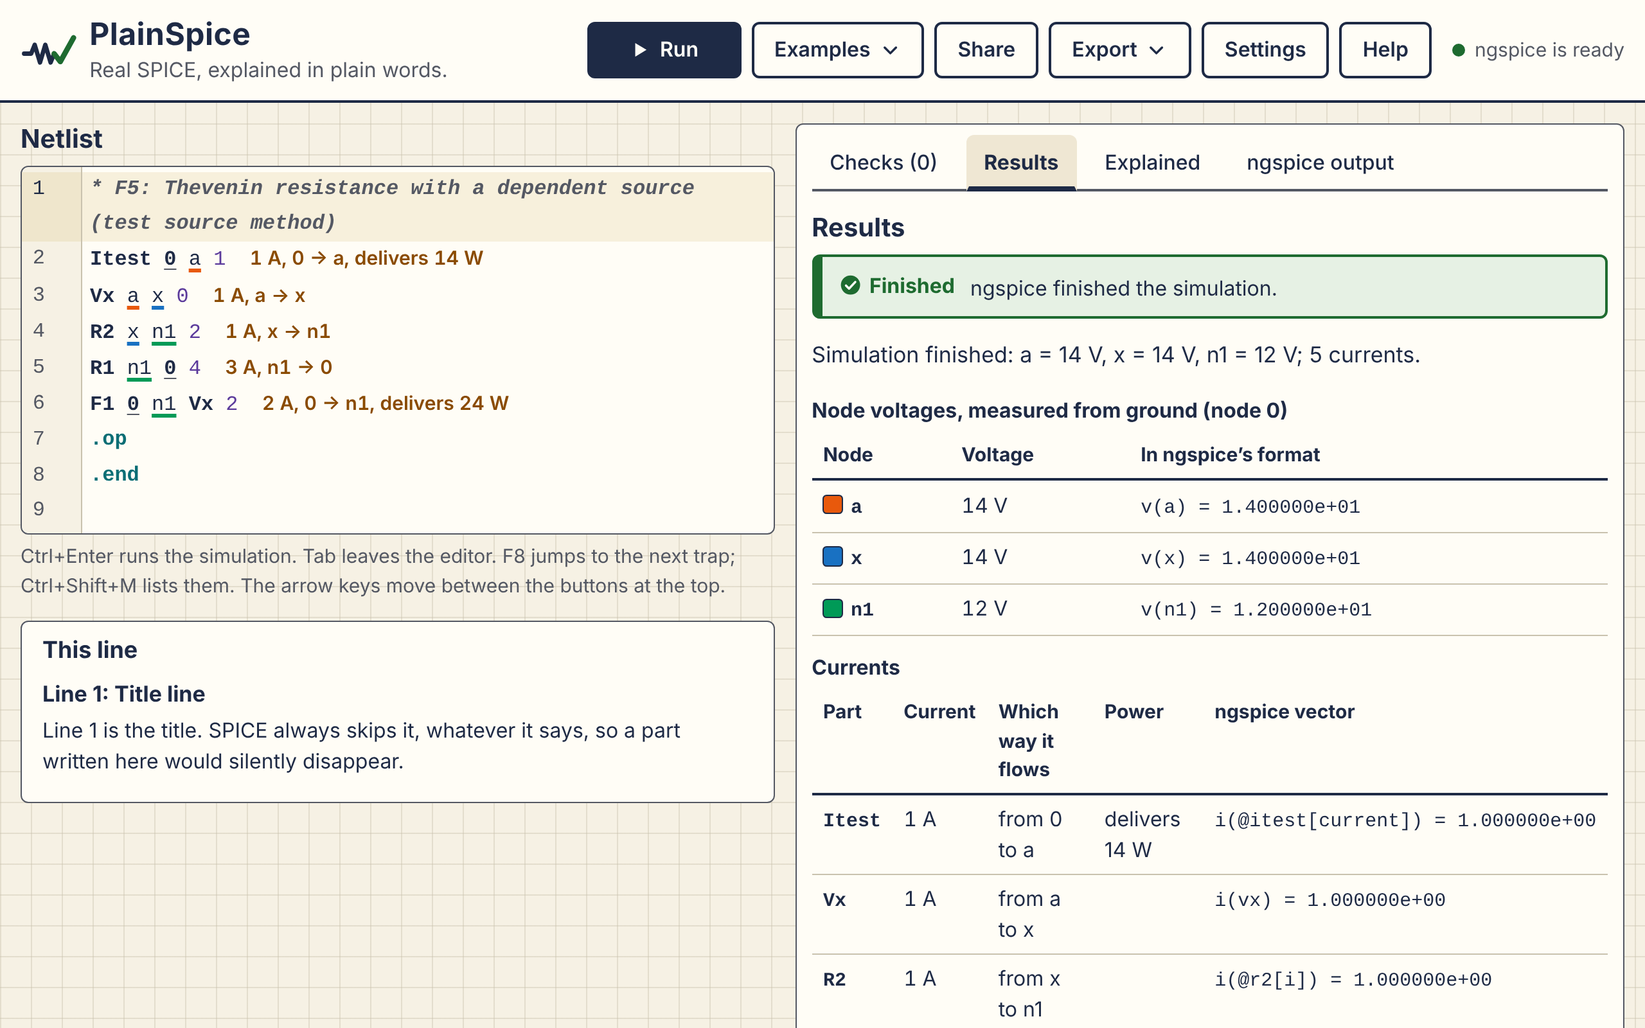
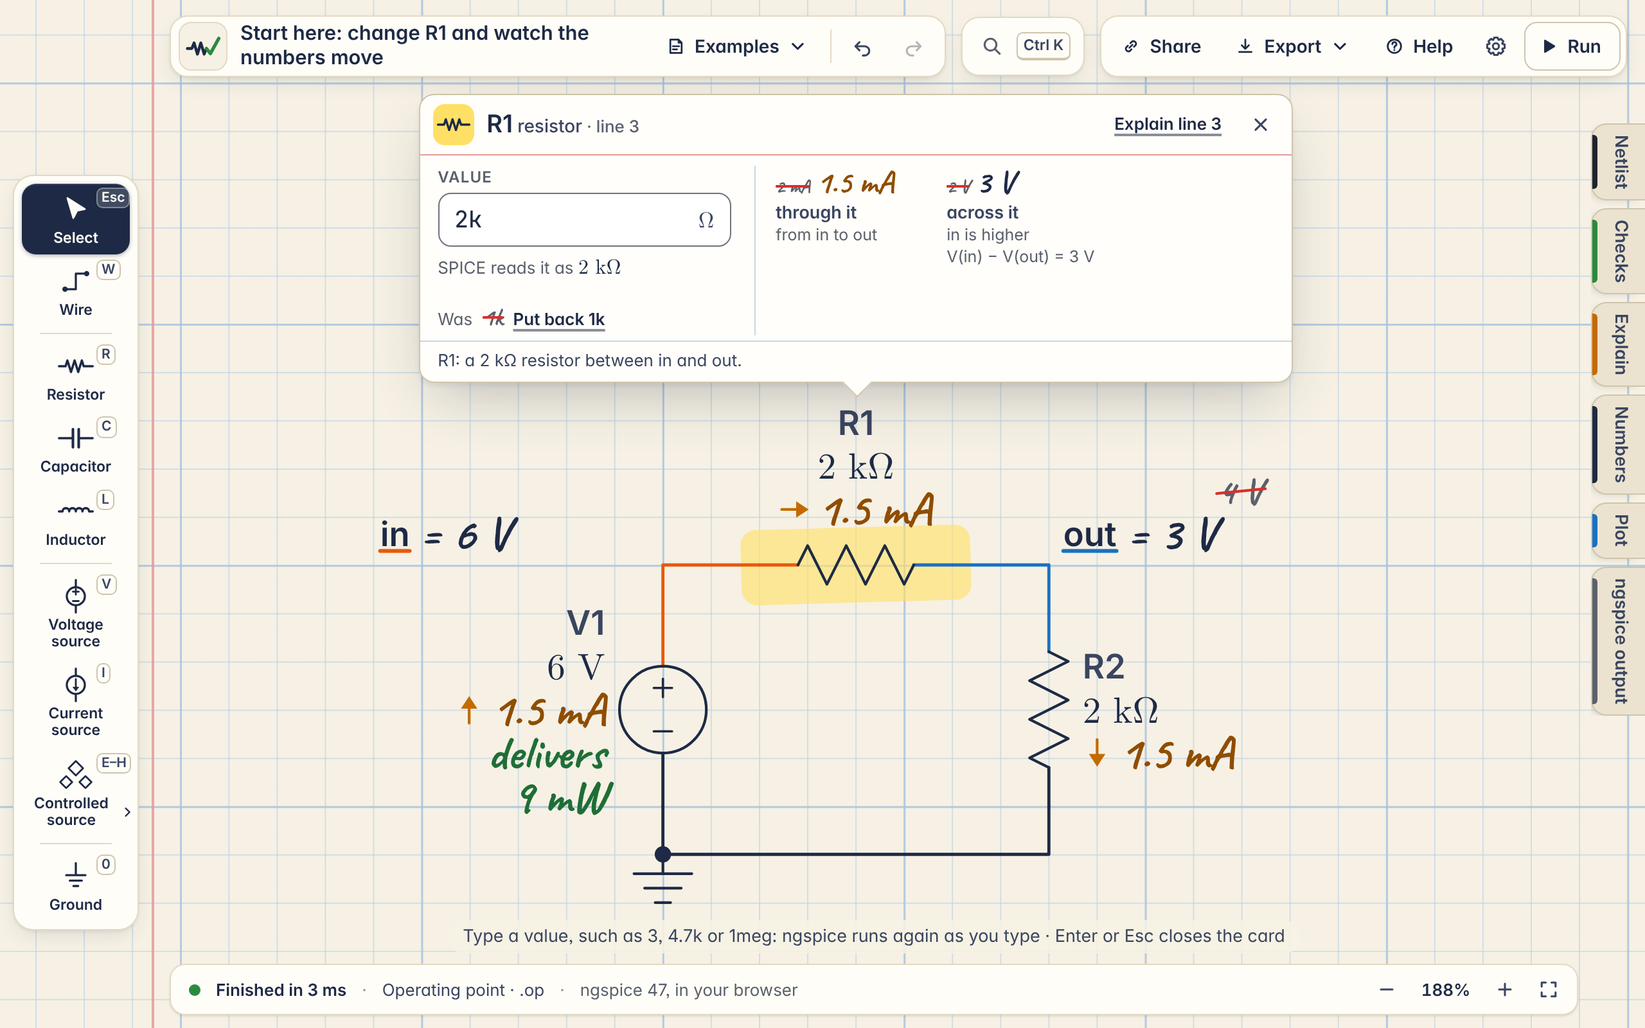
Decision 0016, plan, README and screenshots for step A
The app shell: one netlist store, live runs, the paper with panels on
demand, the first screen, and what step B adds. The plan records what
the three reviews found and what was fixed; the README describes the new
app, with new screenshots for a computer and a phone.

Claude-Session: https://claude.ai/code/session_01FtBTDfqvG2Mze3biskHuvu

Changed region(s): [[0.0, 0.0, 1.0, 1.0], [0.25, 0.7812, 0.2812, 0.8125], [0.0625, 0.9688, 0.0938, 1.0]]

diff --git a/docs/decisions/0016-the-app-shell.md b/docs/decisions/0016-the-app-shell.md
@@ -1,0 +1,158 @@
+# 0016. The app shell: one netlist, live runs, the paper with panels on demand
+
+- Status: accepted (milestone 2, step A; the look and the canvas are Tarık's, decisions
+  [0014](0014-the-look.md) and [0015](0015-notebook-canvas.md))
+- Date: 2026-11-11
+- Code: `src/app/` (`store.ts`, `live.ts`, `model.ts`, `words.ts`, `card.ts`, `card-edit.ts`,
+  `App.tsx`, `components/`), `src/editor/` (one history, `syncDoc`, the folded drawing lines, the screen look),
+  `examples/start-here.cir`; tests in `tests/unit/app-*.test.*` and `tests/e2e/`
+
+## Context
+
+The first app was netlist-first: an editor on the left, results in tabs on the right, Run to
+simulate. Tarık chose the Notebook look for milestone 2: the circuit drawn on the Solved Circuits
+page, solved by ngspice, the results written on it (decisions 0014, 0015). Step A rebuilds the app at
+`/` in that look and keeps every feature of the first one. The circuit can now be changed in two
+places, a value typed on the drawing and the netlist typed in the Netlist panel, and a beginner
+should see the numbers move as they type. Two places that change one circuit need one place where
+the circuit is, one undo, and runs that keep up without piling up.
+
+## Decision
+
+- **One source of truth: the netlist text, in a small store** (`store.ts`, plain TypeScript). Every
+  change goes through it and says who made it: typing in the editor, a value set on the drawing, a
+  fix, a circuit opened (an example, a link), an undo or a redo. The drawing (`buildSchematic`), the
+  checks, the editor, the autosave and the runs all follow the store; the editor is told only the
+  part that changed (`syncDoc`), so its cursor stays where it was.
+- **One undo history, of whole texts.** The store keeps snapshots of the text (the last 200). Keys
+  typed without a pause of 750 ms are one step; every value typed into one card while it is open is
+  one step (none, when the card ends where it started); a fix is one; opening a circuit is one.
+  CodeMirror keeps no history of its own here: its Ctrl+Z, Ctrl+Shift+Z and Ctrl+Y are the store's.
+- **Each text knows whose it is.** The netlist saved on this device, and anything typed, changed on
+  the drawing or fixed, is the student's; an example or a link just opened is not, until the student
+  changes it (then it is theirs, as it was opened too). Only the student's texts are saved: an undo
+  or a redo that lands on a circuit opened and never changed is like opening it again, so an example
+  never replaces the homework saved on the device, and the save writes the student's last text even
+  when a redo has moved on to an example since.
+- **A part's card types into the netlist, never around it** (`card-edit.ts`). When the card opens it
+  finds where the value is written (all its words: "4,7k" and "1 k" are one value written badly);
+  every keystroke rebuilds the text from that moment with those words replaced, so nothing typed on
+  the way ("-" on the way to "-12", "4,") is ever left behind, and Put back gives the line exactly as
+  it was. Only a value SPICE reads as one number goes in (the parser's reading, checked against
+  ngspice; "1M", a number with a trap, goes in and the card points the trap out). Anything else stays
+  in the field, marked invalid, and the card says why in the checks' own words, with their fix when
+  it is a value ("4,7k: SPICE reads the comma as a space · Write 4.7k"), a moment after typing pauses;
+  the netlist, the drawing and the numbers keep the last value SPICE read. The field takes letters
+  (`inputmode="text"`): values need k, meg and u, and a phone's decimal key may be a comma.
+- **Where the parts are drawn is written only when it must be.** The `*@` lines (decision 0013) go
+  into the netlist when the drawing would otherwise move: a value that changes the automatic layout
+  (a 0 V ammeter given a voltage) writes the positions it had, so the drawing stays still; and in
+  step B every part moved by hand. A netlist whose drawing did not move keeps its text exactly as
+  written, and Share and Export carry the netlist as it is: a link made in the app is the link
+  `make-link.ts` makes for the same netlist, and the ngspice file is the student's text, `*@` lines
+  included when it has them. A part typed in the Netlist panel is laid out where it fits until it
+  has a line of its own.
+- **Live runs** (`live.ts`). ngspice runs the text about 200 ms after the last change. Runs never
+  overlap: while one runs only the newest text waits, and it runs next, so the numbers always end on
+  the text as it is now. Results change in place; while a part's card is open, the numbers from before
+  it opened are crossed out next to the new ones. Run (Ctrl+Enter) runs at once, and a run that has
+  taken 300 ms turns Run into Stop. Live runs pause, and the status line says why and to press Run,
+  when the last run took longer than 1.5 s, when the netlist asks ngspice for about 100,000 points or
+  more (judged again at every change), after Stop or a 20 s time-out, and when a link was opened
+  without run=1; Run then stands out, and a Run that comes back quickly turns them on again. A link
+  with run=1 runs as Run would, however many points it asks for. While ngspice itself downloads (the
+  first visit), the run waits and the status line says so; Run turns into Stop only for a run that has
+  been going for a while once ngspice is in. A netlist without an analysis, or without a single part,
+  is never sent to ngspice; the status line and the Checks panel say what to add, and an empty paper
+  says where to start. While ngspice has not answered the newest text, the drawing and the card keep
+  the last numbers in pencil, and screen readers hear "Before your last change"; when nothing will
+  run without Run, the card says so in the status line's words. One verb for it all: ngspice runs
+  ("Running…", "Finished in 5 ms").
+- **The paper first, panels when you want them.** The drawing fills the screen. Around it: the top
+  bar (the circuit's title, Examples, undo and redo, Ctrl+K, Share, Export, Help, Settings, Run), the
+  parts toolbar with names in the page's margin, the hint line (what to do next) and the status line
+  (what ngspice did) along the bottom. Six panels share the screen with the drawing, each opened when
+  wanted and focused on its heading: Netlist (CodeMirror on the dark "simulator screen" of the
+  episodes, the `*@` lines folded into one line until shown, traps underlined, results at the ends of
+  the lines), Checks (each trap with its one-click fixes), Explain (the circuit in words, then every
+  line, the selected part's first), Numbers (every result in tables, with ngspice's own spelling),
+  Plot (`.dc` and `.tran`, with its table and CSV), and ngspice output (what it printed, the command,
+  the line PlainSpice added). On a computer they open from divider tabs down the right edge and the
+  drawing fits in the rest; on a phone, from one bar along the bottom, as sheets (each takes the
+  focus to its heading and gives it back to its button). Under the Netlist panel's editor, "This
+  line" explains the cursor's line field by field, so a line can be read while it is typed; the SPICE
+  for Beginners examples open with the Netlist panel beside the drawing. A part's card opens beside
+  its part (decision 0015), measured when it opens and never moved while a value is typed; where no
+  side of the part has room (large text, a short window) it is docked along the bottom of the paper
+  and the drawing fits above it, so it never covers the numbers it changes. Results the drawing
+  cannot show (`.tf`, a sweep's summary) are on a card on the paper. Ctrl+K reaches every command,
+  panel, part, example (a video's examples named with their video) and setting.
+- **Every size of screen and text.** The phone's layout is used below 900 px wide and below 520 px
+  tall (a phone on its side, 400 % zoom), measured in text sizes as a browser's zoom measures them:
+  a 1280 × 800 window with the Text size setting at 150 % holds what an 853 × 533 one holds, and
+  gets the phone's layout too (its card a sheet below the drawing). The drawing's smallest and
+  largest sizes grow with the Text size setting; with larger text on a computer the top bar's
+  buttons keep their icons and lose their words to the eye (names kept), the parts toolbar tightens
+  and then keeps its icons and keys when the window is short, the divider tabs drop their icons and
+  their column fades where it has more, and the circuit's title always keeps room. In Windows High Contrast the drawing takes the system's colours itself (the browser
+  does not force an SVG's ink), in light and dark themes.
+- **The first screen.** A first visit (no link, nothing saved) opens **Start here**, a 6 V source and
+  two resistors (`examples/start-here.cir`), already solved, with a sticky note (on a phone, the hint
+  line) inviting the student to change R1 and watch the numbers move. It is the first item of the
+  Examples menu. Which circuit opens is decided as before (`startup.ts`: a link, then the saved
+  netlist, then the default example), and share links are unchanged: the same format and decoder;
+  a link carries the netlist exactly as it is (see above).
+- **Placing parts is step B, and the app says so.** The part tools can be chosen (by click, by key,
+  from the phone's Parts sheet); the hint line then says plainly that placing comes in the next update
+  and that a click on a part changes its value, and a click on a part does exactly that. Nothing
+  pretends to place.
+- **The words are functions of the state** (`words.ts`: the status and hint lines), testable without a
+  browser; every string is in `src/i18n/en.ts`. React only renders (decision 0002).
+
+## Considered
+
+- **Adding the `*@` lines to every link and every exported file.** Links twice as long, files with
+  lines the student never wrote, and a published format before anything can be moved by hand; the
+  automatic layout draws an unmoved netlist the same wherever it opens. Rejected until positions
+  matter (above).
+- **Letting the card write whatever is typed.** Every keystroke of "-12" or "4,7k" would have put a
+  broken line in the netlist for a moment (an error, the numbers gone, the card jumping), and a
+  half-typed value is not a mistake. Rejected for the card's own check (above); the Netlist panel
+  still writes exactly what is typed, as a text editor must.
+- **Keeping CodeMirror's own history next to the store.** Two histories disagree as soon as the
+  drawing changes the text (an undo in the editor would undo only its own typing). Rejected.
+- **Running on every keystroke.** ngspice would run for every letter of "4.7k"; most runs would be
+  thrown away and a slow phone would lag. Rejected for a short pause (200 ms) and newest-wins.
+- **Keeping the editor and the result tabs as the main screen, with a drawing beside them.** The
+  drawing is what the channel's students know from the videos, and what Tarık chose; the netlist is
+  one panel away. Rejected.
+- **Pausing a netlist that asks for very many points until Run, for good.** Then fixing the `.tran`
+  line would leave live runs off for no reason; the size is a property of the text, so it is judged
+  again at each change.
+
+## What step B adds
+
+Placing, moving and wiring parts on the drawing with the toolbar's tools (and the phone's Parts
+sheet), deleting them, and dragging the drawing's parts and wires, each written to the netlist and its
+`*@` lines through the same store, with the same undo and the same live runs. The panels, the card and
+Ctrl+K stay as they are.
+
+## Consequences
+
+- The status line's words follow the Numbers panel's ("Not reliable", "Error", "No results"), and its
+  time is ngspice's own (the ngspice output panel's).
+- On a phone the turn button offers "As drawn" (not "As in the video", decision 0015) until a drawing
+  really comes from a video's own `*@` lines (step C): an automatic layout is not the video's.
+- Some sentences of the model use "tab" for what are now panels opened from tabs ("in the ngspice
+  output tab", src/spice/describe.ts and explain.ts); the tab is now named "ngspice output", so they
+  stay true on a computer. Changing them is a model change, left to Tarık's review.
+- The focus ring is ink, as in the approved checkpoint (it was blue); it is at least 3:1 everywhere
+  (`tests/unit/app-contrast.test.tsx`).
+- A panel's text box is a Tab stop when it can scroll (large text), so the keyboard can scroll it.
+- The tests follow the new screen: the store and live runs (`app-store`, `app-live`), the words
+  (`app-words`), the model (`app-model`), the whole app in jsdom with the real ngspice (`app-smoke`:
+  the first screen, a card's live re-run and undo, typing that redraws, the folded `*@` lines, live
+  runs pausing, Ctrl+K, the plain font, links), and end to end on a computer and a phone (the first
+  screen, live runs, every fixture and every video example against native ngspice, traps and fixes,
+  share links including a link made for the old address, export, plots, keyboard only, the phone's
+  turned drawing and sheets, offline, and axe in every main state).

diff --git a/README.md b/README.md
@@ -8,7 +8,7 @@ in a circuit simulator.
 **Try it: <https://plainspice.com/>** · [Engine check](https://plainspice.com/spike/) ·
 [Licences and source](https://plainspice.com/licenses/)
 
-![PlainSpice running the F5 example: the netlist with each part's current on its line, and the Results tab with node voltages and currents in plain units](docs/screenshot.png)
+![PlainSpice on its first screen: a 6 V source and two resistors drawn on notebook paper, solved by ngspice, with R1 changed to 2 kΩ on its card: the new node voltages and currents are handwritten on the drawing and the old ones crossed out](docs/screenshot.png)
 
 ## What it does
 
@@ -17,10 +17,19 @@ compiled to WebAssembly and run in a background worker in your browser. It gives
 numbers as ngspice on a PC (checked to 6 significant figures; today they are bit-identical).
 Everything around it is for beginners:
 
+- **It draws the circuit and writes the answers on it.** The netlist is drawn on the notebook page
+  of the Solved Circuits videos, and ngspice's results are handwritten on the drawing: each node's
+  voltage, each part's current with an arrow the way it flows, each source's power. Click a part
+  (tap it on a phone), type a new value, and ngspice runs the circuit again as you type: the new
+  numbers appear, the old ones crossed out. A value SPICE would misread ("4,7k", "1 k") is caught on
+  the card, with why and a fix, before it reaches the netlist. The first screen invites you to try it.
+- **One netlist, two ways in.** The Netlist panel shows the same circuit as SPICE reads it, on a
+  dark "simulator screen"; type there and the drawing follows, change a value on the drawing and its
+  line changes. One undo covers both.
 - **It explains as it simulates.** Each netlist line is shown as a field table in plain words
-  (name, + node, − node, value; for a current source: from node, to node, current). Results
-  appear on the netlist lines and in tables, in plain units: `1.200000e+01` becomes **12 V**,
-  and every current says which way it flows.
+  (name, + node, − node, value; for a current source: from node, to node, current). Every result is
+  also in the Numbers panel's tables, in plain units: `1.200000e+01` becomes **12 V**, and every
+  current says which way it flows.
 - **It catches beginner traps before you run**, says why, and offers a one-click fix: `1M` is a
   milliohm (mega is `1meg`), `3A` means 3 attoamps, no ground (node 0), a node with only one
   connection, a current source with no path, a duplicate name, an unknown first letter, and more.
@@ -29,8 +38,8 @@ Everything around it is for beginners:
   circuit and its results are described for screen readers, node colours are colour-blind-safe
   and never the only signal, and there are high-contrast, large-text and reduced-motion modes.
 - **It is shareable.** The whole circuit lives in the link: no account, no server. Every Solved
-  Circuits video can link "Open this circuit". It works offline and on a phone, and exports
-  netlists for ngspice and LTspice.
+  Circuits video can link "Open this circuit". It works offline and on a phone (a wide drawing
+  turns to fit the screen), and exports netlists for ngspice and LTspice.
 
 How it differs from [EEcircuit](https://github.com/eelab-dev/EEcircuit), the closest existing
 tool: [docs/eecircuit-comparison.md](docs/eecircuit-comparison.md).
@@ -41,8 +50,12 @@ First milestone, November 2026: the decisions ([docs/decisions/](docs/decisions/
 (checked against native ngspice: [docs/fixture-results.md](docs/fixture-results.md)), the
 netlist-first app, and its tests in CI (unit, golden against native ngspice, and end-to-end with
 accessibility checks on a desktop and a phone). The app was then reviewed for SPICE wording,
-accessibility, security and speed on phones, and the findings were fixed. What's next and the
-open questions: [docs/plan.md](docs/plan.md).
+accessibility, security and speed on phones, and the findings were fixed.
+
+Milestone 2, step A: the app in the Notebook look Tarık chose ([0014](docs/decisions/0014-the-look.md),
+[0015](docs/decisions/0015-notebook-canvas.md), [0016](docs/decisions/0016-the-app-shell.md)): the
+drawing first, solved live as you edit, with every feature of the first app in panels. Placing and
+wiring parts on the drawing is step B. What's next and the open questions: [docs/plan.md](docs/plan.md).
 
 ## Develop
 
@@ -73,7 +86,8 @@ The engine is committed (`engine/dist/`); to rebuild it from the ngspice source,
 |---|---|
 | `src/spice/` | the netlist model: number reader, parser, trap checks, explanations |
 | `src/engine/` | ngspice in a Web Worker; results and messages |
-| `src/app/` | the user interface (React 19 + React Aria Components) |
+| `src/app/` | the user interface (React 19 + React Aria Components): the netlist store, live runs, the shell |
+| `src/schematic/`, `src/notebook/` | the circuit drawn from its netlist; the Notebook page it is drawn on |
 | `src/editor/`, `src/plot/`, `src/share/`, `src/export/` | CodeMirror editor, uPlot plots, share links, export |
 | `engine/` | the reproducible ngspice 47 WebAssembly build |
 | `docs/` | decisions, research, SPICE facts with evidence, the plan |

diff --git a/docs/plan.md b/docs/plan.md
@@ -96,6 +96,29 @@ Done so far:
   Beginners, then p01, p02 and e04): 20 netlists in [examples/](../examples/), each crediting its
   video, first in the Examples menu. Each gives the values the channel recorded with native
   ngspice (`tests/golden/examples.test.ts`); the three "mistake" examples show the check they teach.
+- **Step A: the app in the Notebook look** (decision 0016): the app at <https://plainspice.com/> is
+  now the drawing first, solved by ngspice as you edit (items 3 and 5 above). One netlist text with
+  one undo history behind the drawing and the Netlist panel; live runs a moment after each change,
+  never two at once, paused (with the reason on the status line) for slow runs and very long
+  `.tran`s; the panels (Netlist on the dark screen with the drawing lines folded, Checks, Explain,
+  Numbers, Plot, ngspice output) open when wanted; Ctrl+K reaches every command; the first screen is
+  Start here, already solved, inviting a change to R1. Every feature of the first app is kept, and
+  the tests follow it (unit, jsdom with the real ngspice, and end to end on a computer and a phone,
+  axe in every main state).
+- **Step A, reviewed** (design, accessibility, and "is everything kept"; fixed on 11 Nov): a part's
+  card now types into the netlist without ever leaving stray words behind, keeps a value SPICE cannot
+  read in the field with the checks' reason and fix ("4,7k" → "Write 4.7k"), and Put back restores
+  the line exactly; an undo or redo onto an example never overwrites the student's saved netlist;
+  Run is not Stop while ngspice downloads, and a run=1 link runs however long; old numbers are
+  marked as old (in pencil, and "Before your last change" for screen readers); links and exports
+  carry the netlist exactly as written; the drawing follows the Text size setting, the card never
+  covers the numbers (docked below the drawing when no side has room), larger text keeps the title,
+  the tools and the tabs reachable, a phone on its side or 400 % zoom gets the phone's layout, and
+  Windows High Contrast in a dark theme shows the drawing; traps are read out with each part;
+  "This line" is back under the netlist; the empty netlist, a part ngspice leaves out, and the Plot
+  panel say what is going on.
+- **Next: step B**, the schematic editor (item 4): place, move and wire parts with the toolbar;
+  until then the part tools say plainly that placing comes in the next update.
 
 ## Next
 
@@ -110,6 +133,11 @@ Done so far:
   solved-circuits repository (`deliver/`), starting with SPICE for Beginners (sp01).
 - **Turkish UI**: the strings are in a catalog (`src/i18n/en.ts`); translate them, and have a
   Turkish speaker review React Aria's tr-TR strings (one plural is already known to be wrong).
+- **Step A's known gaps** (from the reviews, not done this round): the model's own sentences say
+  units as symbols ("a 1 kΩ resistor", read "omega" by some screen readers) and "the ngspice output
+  tab"; both are in src/spice and src/schematic and need a spoken variant there. Text-spacing
+  overrides (WCAG 1.4.12) can make a result touch its arrow on the drawing. Netlist and another
+  panel side by side on wide screens. The Plot panel is drawn again each time it opens.
 - **Small known gaps**: the editor colours a word after an R, C or L value as a model name even
   when no `.model` defines it (the check underlines it as an error and explains it; the colour
   would need the netlist's model names inside CodeMirror's line-by-line highlighter); a

diff --git a/docs/decisions/README.md b/docs/decisions/README.md
@@ -20,6 +20,7 @@ behind them is in [`../research/`](../research/).
 | [0013](0013-schematic-model.md) | The schematic model: the circuit drawn from its netlist, in step both ways; positions in the netlist | accepted (Tarık chose the netlist) |
 | [0014](0014-the-look.md) | The look: Notebook, with a named toolbar, Ctrl+K and a plain-font setting | accepted (Tarık) |
 | [0015](0015-notebook-canvas.md) | The Notebook canvas: four voices, exact room for words, results in their own lines, a turned drawing on phones | accepted (the phone's turned drawing waits for Tarık) |
+| [0016](0016-the-app-shell.md) | The app shell: one netlist text with one undo history (only the student's texts saved), a card that types only values SPICE reads, live runs, links and files exactly as written, the paper with panels on demand, every size of screen and text, the Start here first screen | accepted |
 
 Also: [what we do differently from EEcircuit](../eecircuit-comparison.md) and the
 [fixture results](../fixture-results.md).
